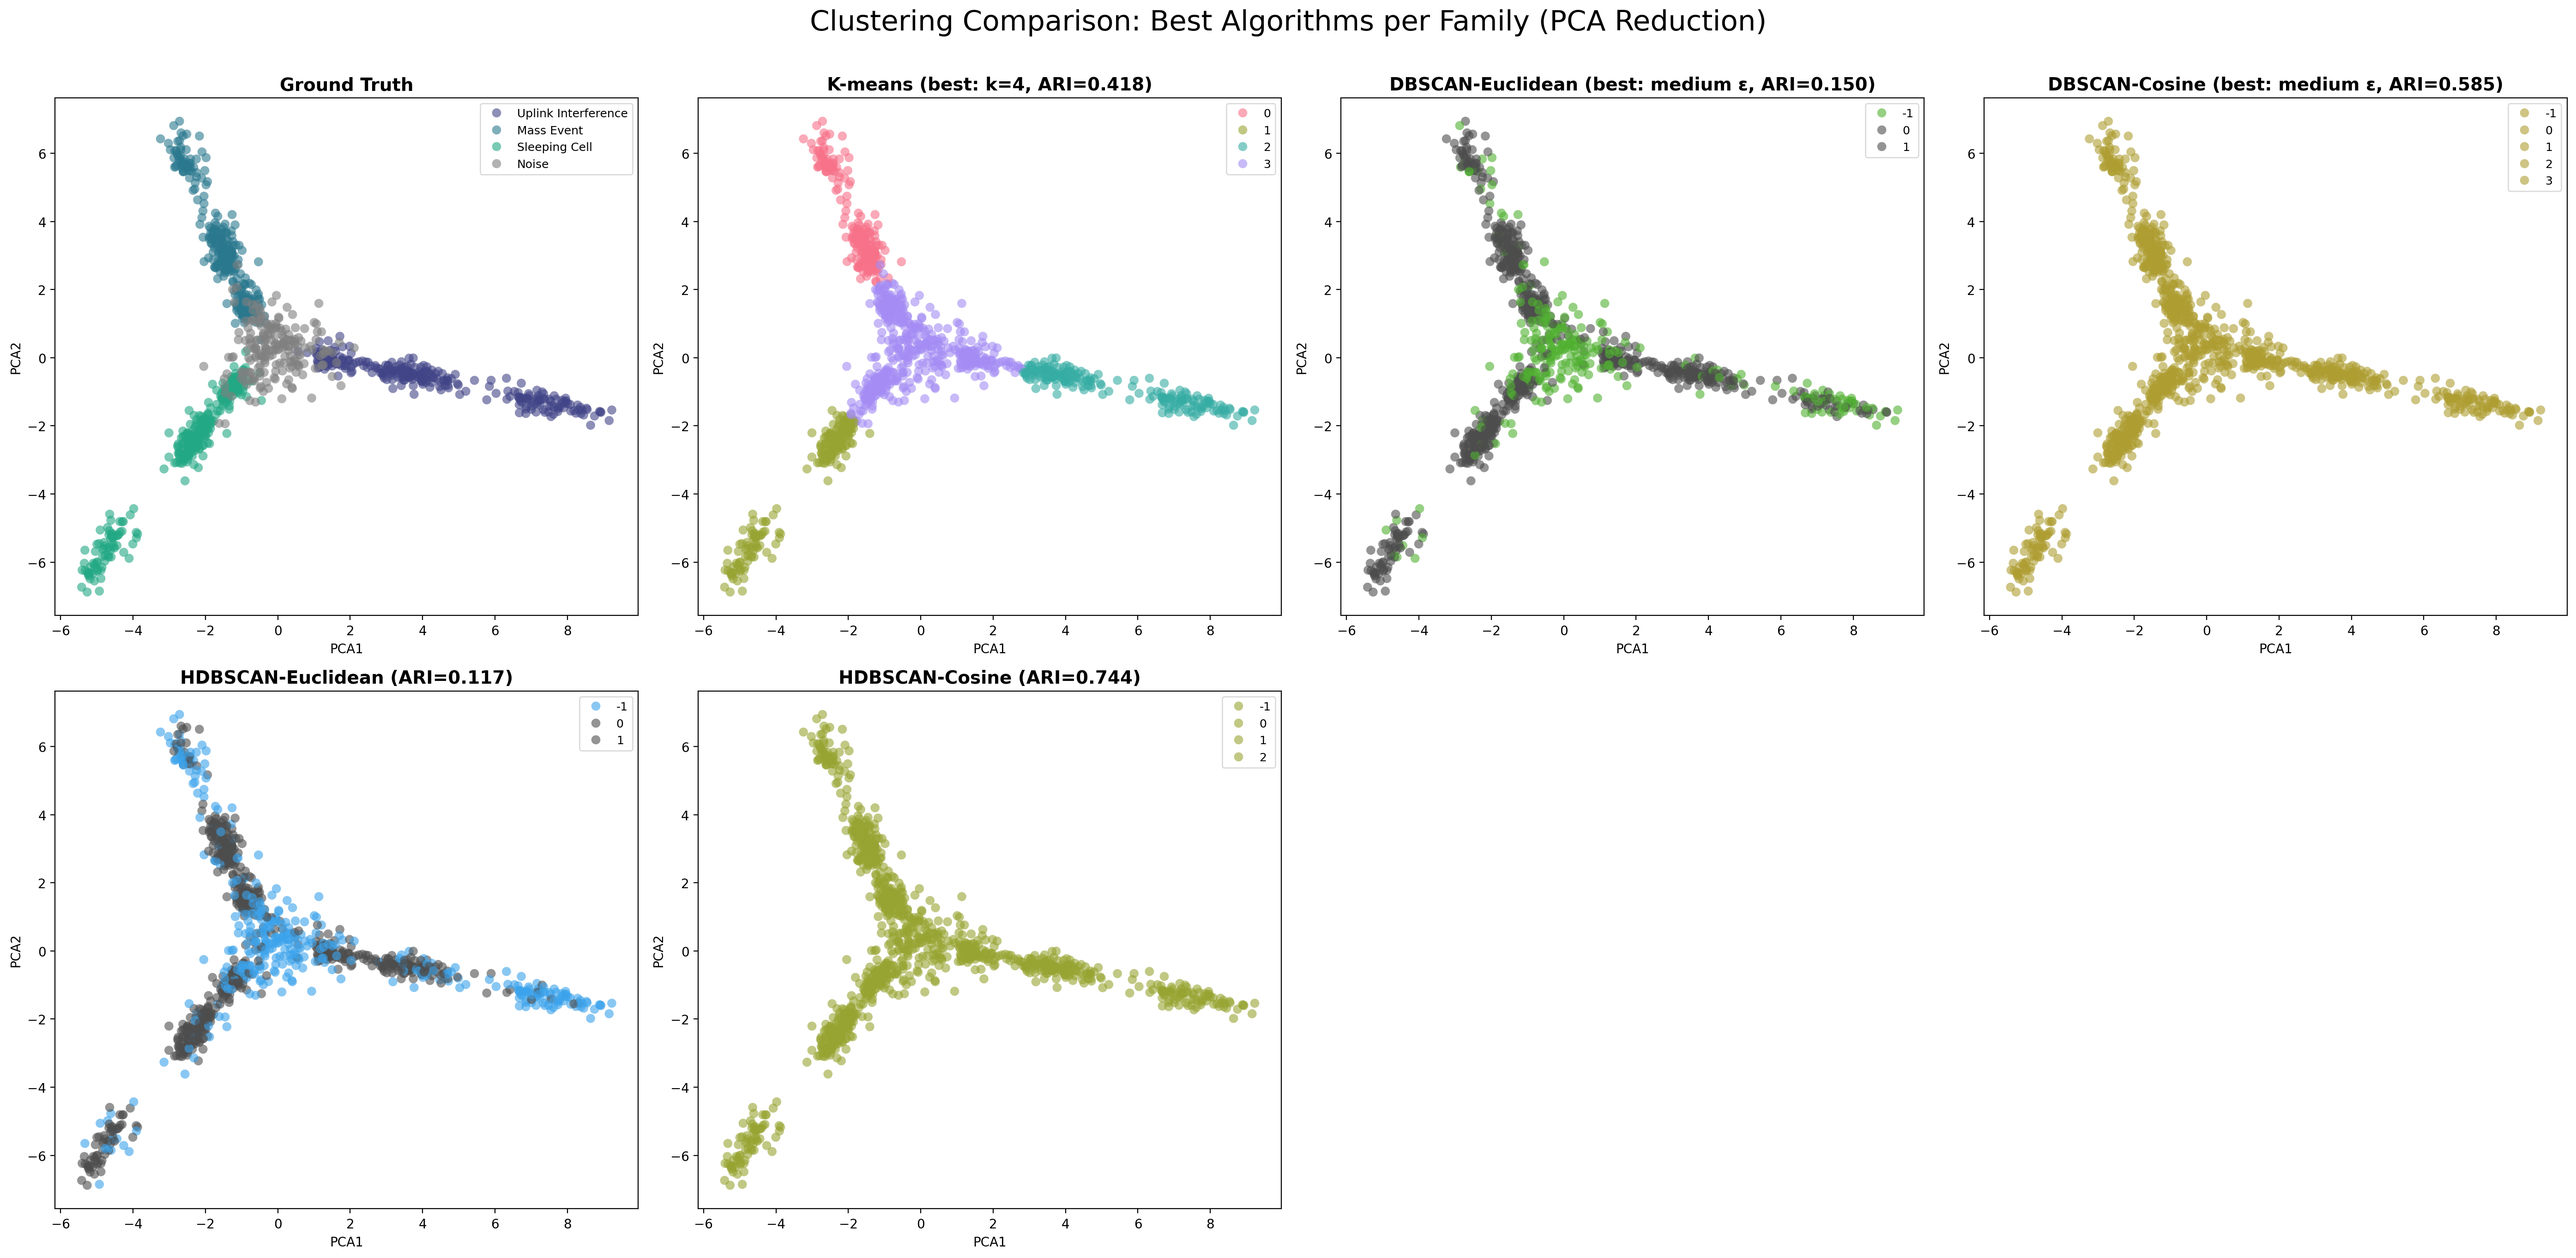
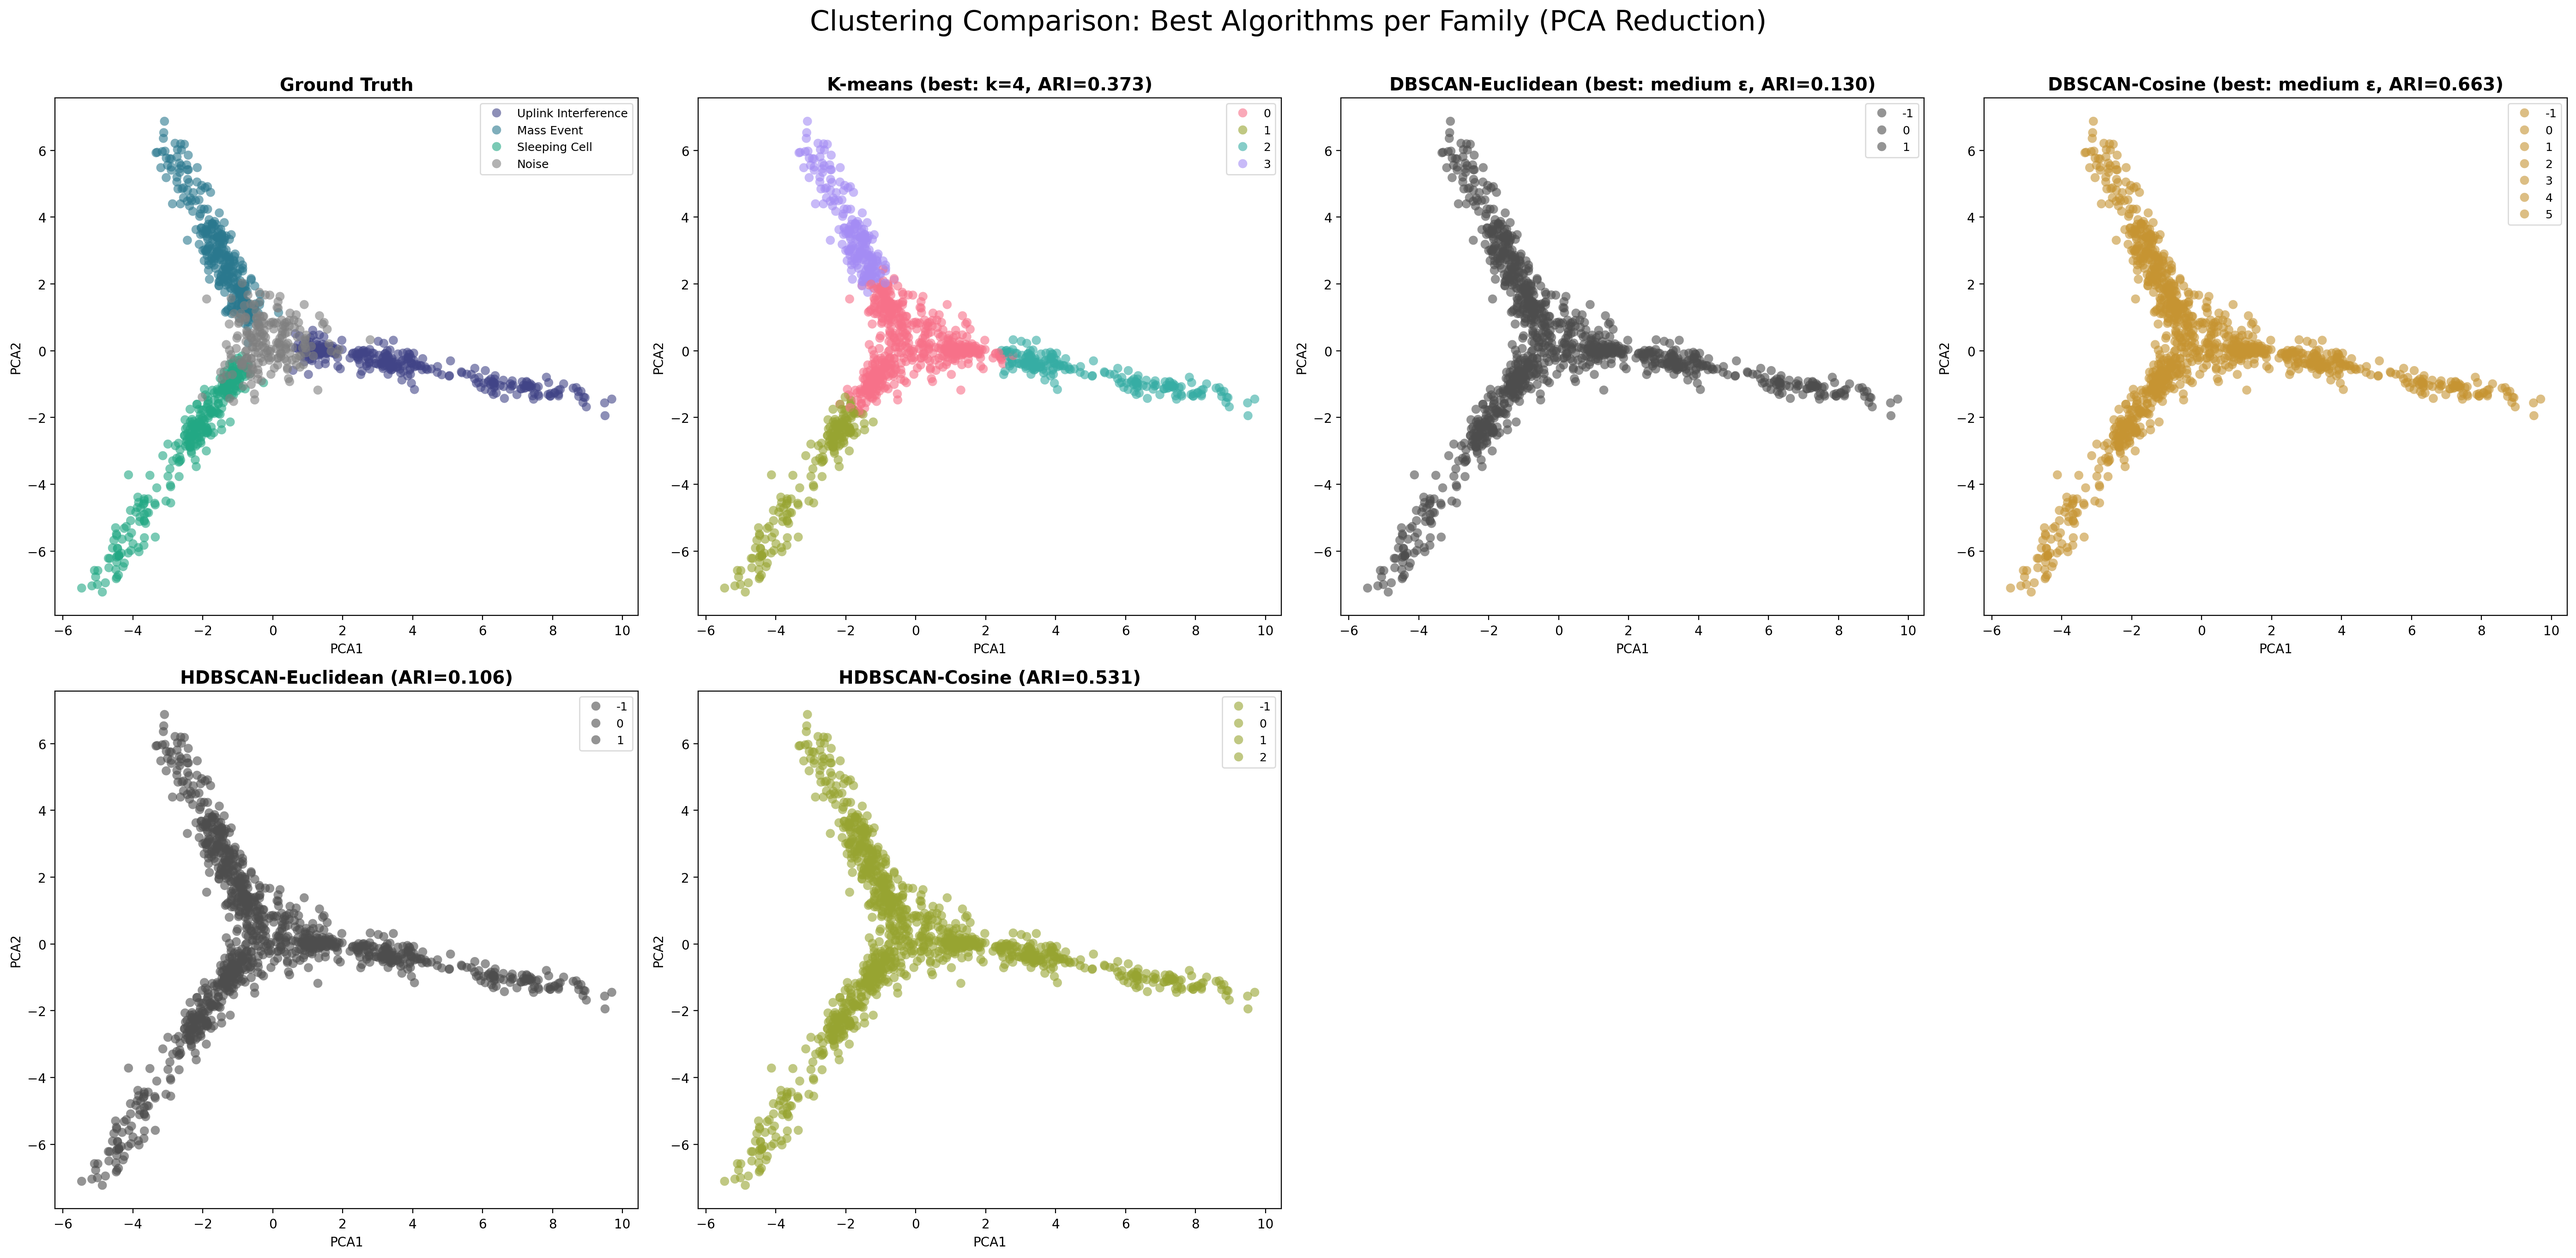
Add partial anomaly realism: 10% of signature KPIs remain normal
Realistic improvement: Not all signature KPIs are always anomalous.
With 10% probability per KPI per sample, signature features stay at
baseline levels, simulating:
- Early-stage anomalies (e.g., interference starting but SINR ok)
- Partial recovery (e.g., resolving mass event)
- Incomplete signatures (common in real networks)
- Measurement timing artifacts
- Network self-healing compensating effects

Impact on clustering difficulty:
- Intra-cluster spread increased: 3.4-3.8 → 3.5-4.2
- HDBSCAN-Cosine performance: 74% → 53% ARI (task harder!)
- DBSCAN-Cosine remains best: 60-66% ARI (robust to partial patterns)
- Euclidean methods still fail: <15% ARI

This creates the most realistic benchmark for network anomaly clustering,
where anomalies are rarely "textbook perfect" with all symptoms present.

diff --git a/anomaly_clustering_comparison.py b/anomaly_clustering_comparison.py
@@ -99,18 +99,23 @@ def generate_synthetic_data(kpi_list, n_points_per_cluster=300, n_noise=200):
 
     # Severe cases (high reconstruction error)
     for i in range(start, start + severity_split[0]):
-        data[i, uplink_indices] = np.random.gamma(shape=3.0, scale=0.35, size=len(uplink_indices))
-        data[i, uplink_indices] += np.random.normal(0.7, 0.2, size=len(uplink_indices))
+        for kpi_idx in uplink_indices:
+            # 10% chance this KPI is NOT anomalous (partial anomaly)
+            if np.random.rand() > 0.10:
+                data[i, kpi_idx] = np.random.gamma(shape=3.0, scale=0.35) + np.random.normal(0.7, 0.2)
+            # else: remains at baseline
 
     # Moderate cases (medium reconstruction error - overlaps with mild and normal)
     for i in range(start + severity_split[0], start + severity_split[1]):
-        data[i, uplink_indices] = np.random.gamma(shape=2.5, scale=0.22, size=len(uplink_indices))
-        data[i, uplink_indices] += np.random.normal(0.4, 0.18, size=len(uplink_indices))
+        for kpi_idx in uplink_indices:
+            if np.random.rand() > 0.10:
+                data[i, kpi_idx] = np.random.gamma(shape=2.5, scale=0.22) + np.random.normal(0.4, 0.18)
 
     # Mild cases (low reconstruction error - significant overlap)
     for i in range(start + severity_split[1], end):
-        data[i, uplink_indices] = np.random.gamma(shape=2.0, scale=0.15, size=len(uplink_indices))
-        data[i, uplink_indices] += np.random.normal(0.2, 0.12, size=len(uplink_indices))
+        for kpi_idx in uplink_indices:
+            if np.random.rand() > 0.10:
+                data[i, kpi_idx] = np.random.gamma(shape=2.0, scale=0.15) + np.random.normal(0.2, 0.12)
 
     add_secondary_effects(start, end, uplink_indices, correlation_strength=0.4)
 
@@ -123,19 +128,22 @@ def generate_synthetic_data(kpi_list, n_points_per_cluster=300, n_noise=200):
     # Severe: sudden mass event (20%)
     severe_count = int(0.2 * n_points_per_cluster)
     for i in range(start, start + severe_count):
-        data[i, mass_event_indices] = np.random.gamma(shape=3.5, scale=0.3, size=len(mass_event_indices))
-        data[i, mass_event_indices] += np.random.normal(0.8, 0.15, size=len(mass_event_indices))
+        for kpi_idx in mass_event_indices:
+            if np.random.rand() > 0.10:
+                data[i, kpi_idx] = np.random.gamma(shape=3.5, scale=0.3) + np.random.normal(0.8, 0.15)
 
     # Moderate: building congestion (50%)
     moderate_count = int(0.5 * n_points_per_cluster)
     for i in range(start + severe_count, start + severe_count + moderate_count):
-        data[i, mass_event_indices] = np.random.gamma(shape=2.8, scale=0.2, size=len(mass_event_indices))
-        data[i, mass_event_indices] += np.random.normal(0.45, 0.2, size=len(mass_event_indices))
+        for kpi_idx in mass_event_indices:
+            if np.random.rand() > 0.10:
+                data[i, kpi_idx] = np.random.gamma(shape=2.8, scale=0.2) + np.random.normal(0.45, 0.2)
 
     # Mild: early stage or resolving (30%)
     for i in range(start + severe_count + moderate_count, end):
-        data[i, mass_event_indices] = np.random.gamma(shape=2.2, scale=0.12, size=len(mass_event_indices))
-        data[i, mass_event_indices] += np.random.normal(0.25, 0.15, size=len(mass_event_indices))
+        for kpi_idx in mass_event_indices:
+            if np.random.rand() > 0.10:
+                data[i, kpi_idx] = np.random.gamma(shape=2.2, scale=0.12) + np.random.normal(0.25, 0.15)
 
     add_secondary_effects(start, end, mass_event_indices, correlation_strength=0.5)
 
@@ -148,19 +156,22 @@ def generate_synthetic_data(kpi_list, n_points_per_cluster=300, n_noise=200):
     # Critical failure (25%)
     critical_count = int(0.25 * n_points_per_cluster)
     for i in range(start, start + critical_count):
-        data[i, sleeping_indices] = np.random.gamma(shape=4.0, scale=0.32, size=len(sleeping_indices))
-        data[i, sleeping_indices] += np.random.normal(0.9, 0.18, size=len(sleeping_indices))
+        for kpi_idx in sleeping_indices:
+            if np.random.rand() > 0.10:
+                data[i, kpi_idx] = np.random.gamma(shape=4.0, scale=0.32) + np.random.normal(0.9, 0.18)
 
     # Degraded performance (45%)
     degraded_count = int(0.45 * n_points_per_cluster)
     for i in range(start + critical_count, start + critical_count + degraded_count):
-        data[i, sleeping_indices] = np.random.gamma(shape=2.6, scale=0.18, size=len(sleeping_indices))
-        data[i, sleeping_indices] += np.random.normal(0.5, 0.22, size=len(sleeping_indices))
+        for kpi_idx in sleeping_indices:
+            if np.random.rand() > 0.10:
+                data[i, kpi_idx] = np.random.gamma(shape=2.6, scale=0.18) + np.random.normal(0.5, 0.22)
 
     # Intermittent issues (30% - very hard to distinguish)
     for i in range(start + critical_count + degraded_count, end):
-        data[i, sleeping_indices] = np.random.gamma(shape=2.0, scale=0.1, size=len(sleeping_indices))
-        data[i, sleeping_indices] += np.random.normal(0.3, 0.18, size=len(sleeping_indices))
+        for kpi_idx in sleeping_indices:
+            if np.random.rand() > 0.10:
+                data[i, kpi_idx] = np.random.gamma(shape=2.0, scale=0.1) + np.random.normal(0.3, 0.18)
 
     add_secondary_effects(start, end, sleeping_indices, correlation_strength=0.35)
 
@@ -191,6 +202,10 @@ def generate_synthetic_data(kpi_list, n_points_per_cluster=300, n_noise=200):
     print(f"  - Cluster 1 (Mass Event): {n_points_per_cluster} samples (20% severe, 50% moderate, 30% mild)")
     print(f"  - Cluster 2 (Sleeping): {n_points_per_cluster} samples (25% critical, 45% degraded, 30% intermittent)")
     print(f"  - Noise: {n_noise} samples (random outliers)")
+    print(f"\n  Realism features:")
+    print(f"    • Partial anomalies: ~10% of signature KPIs remain normal per sample")
+    print(f"    • Correlated effects: 30-50% samples show cascading effects on non-primary KPIs")
+    print(f"    • Measurement noise: ±8% variability on all readings")
 
     return df_scaled, data_unscaled, np.array(labels)
 
